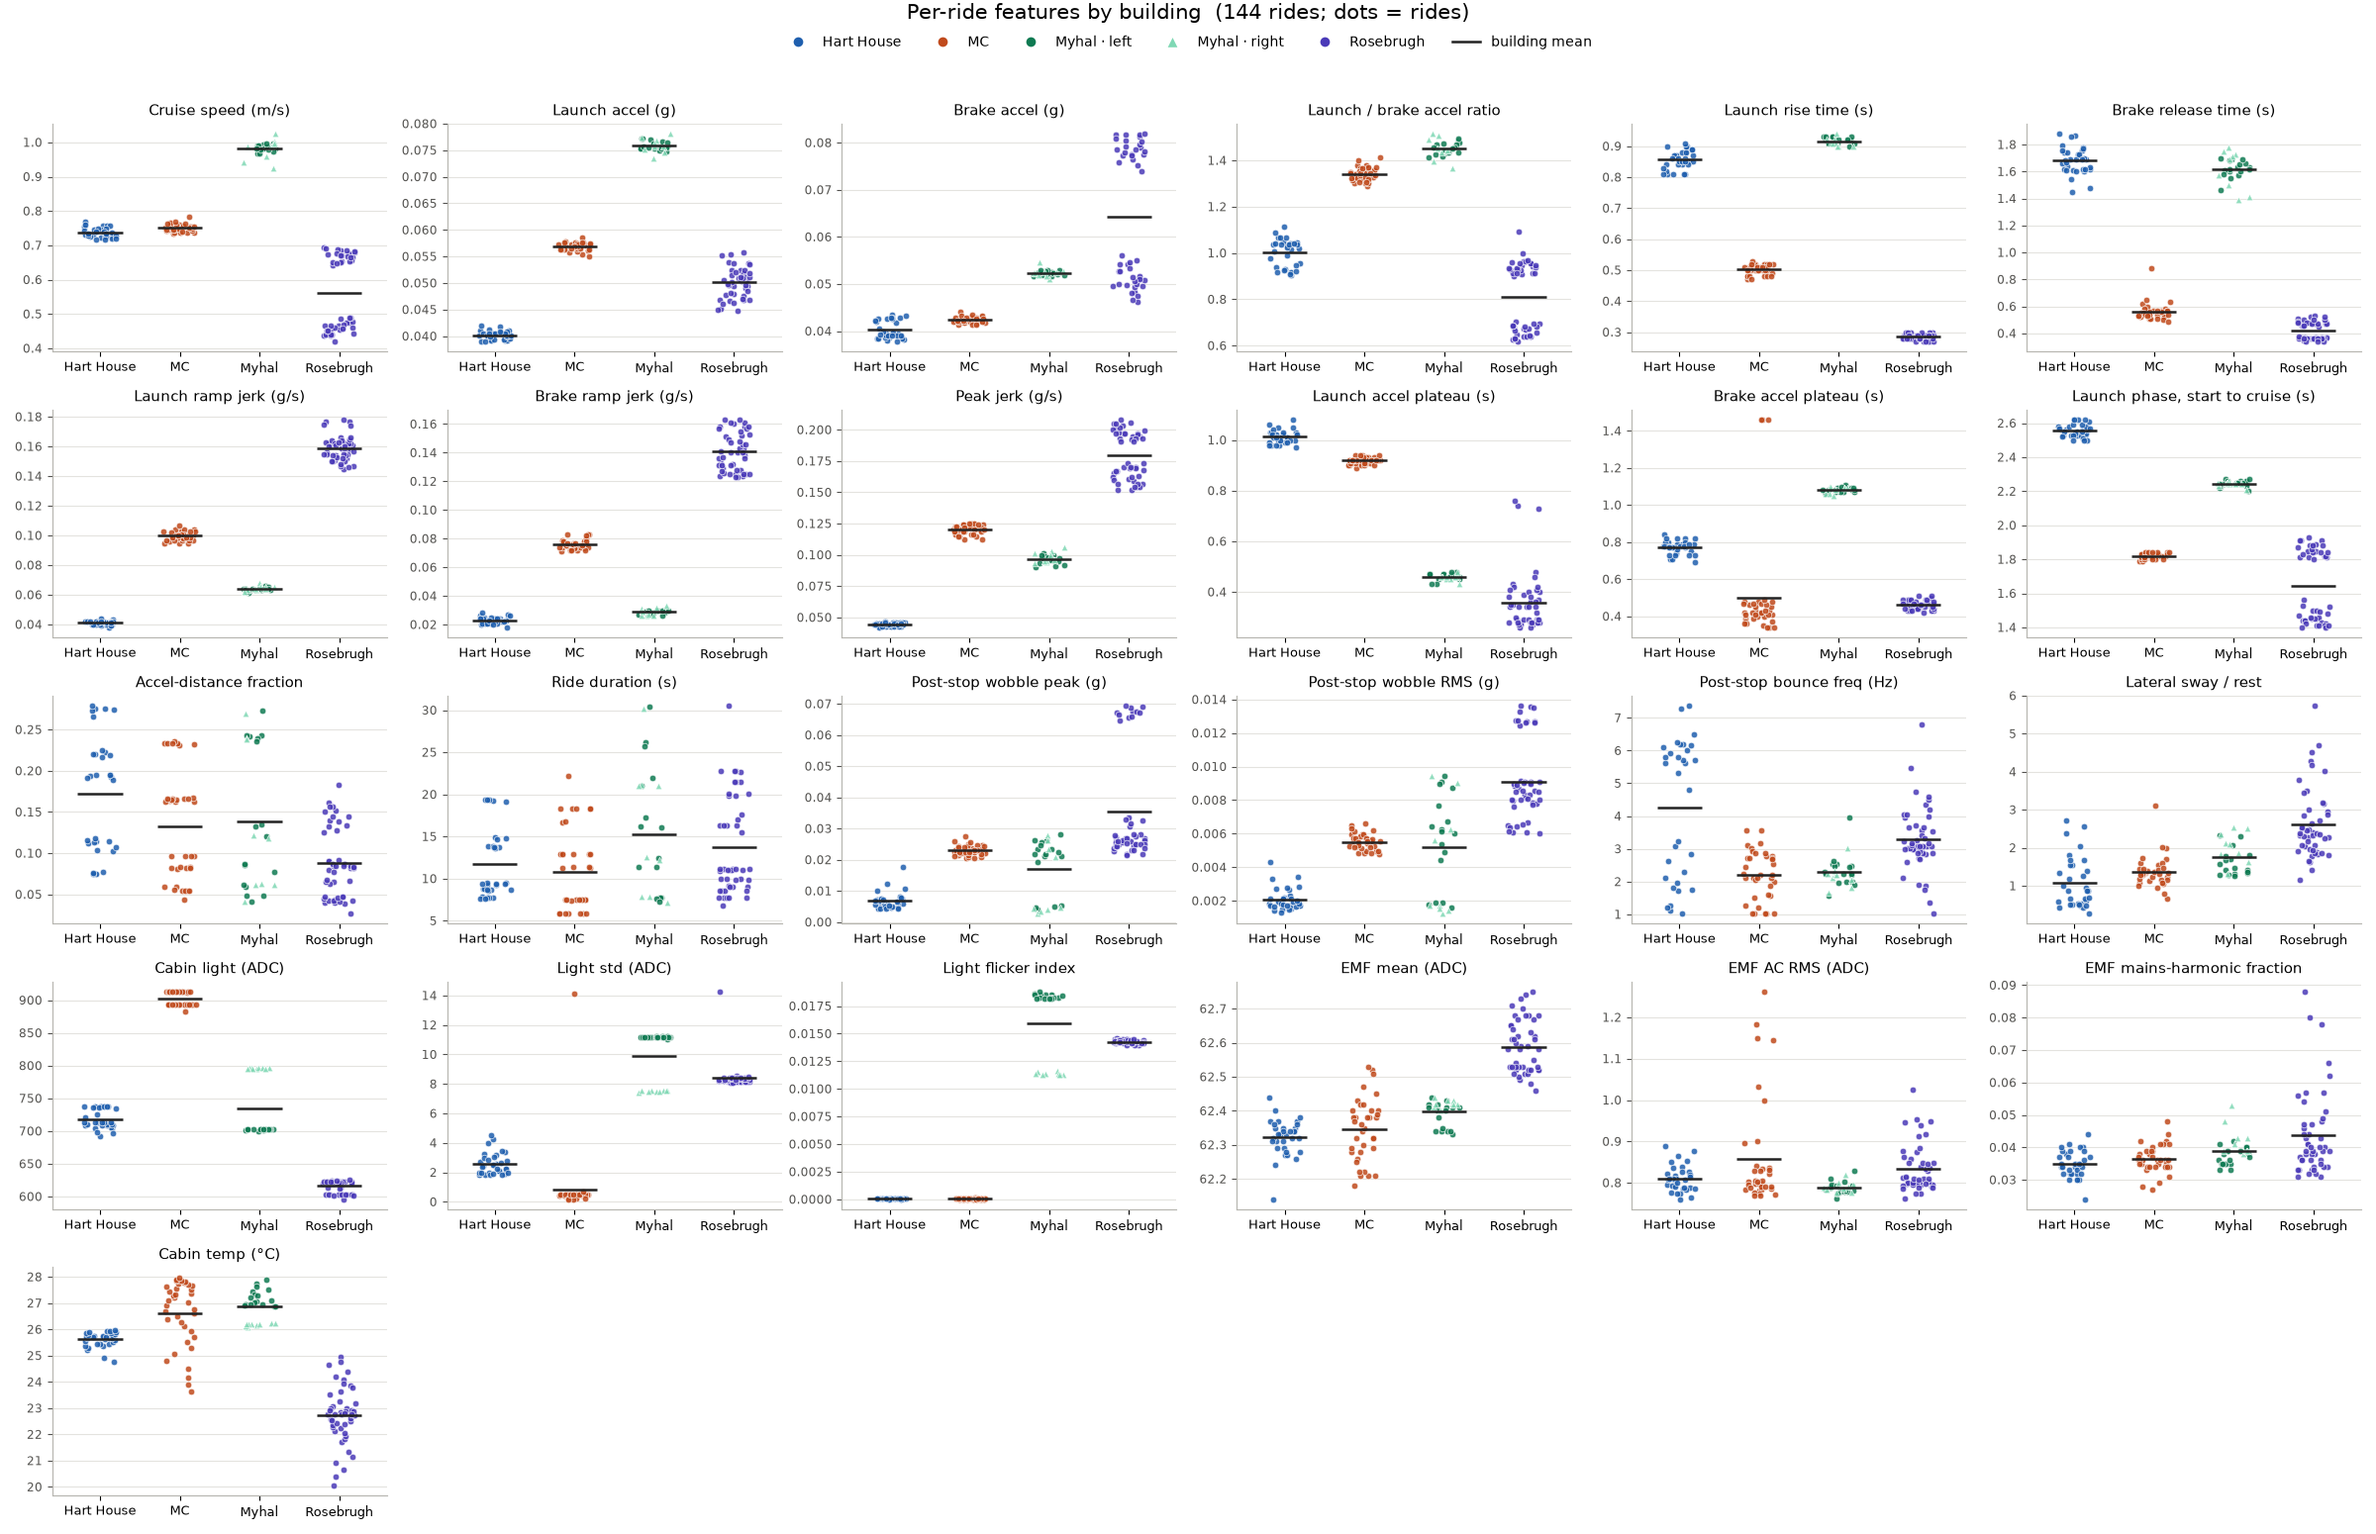
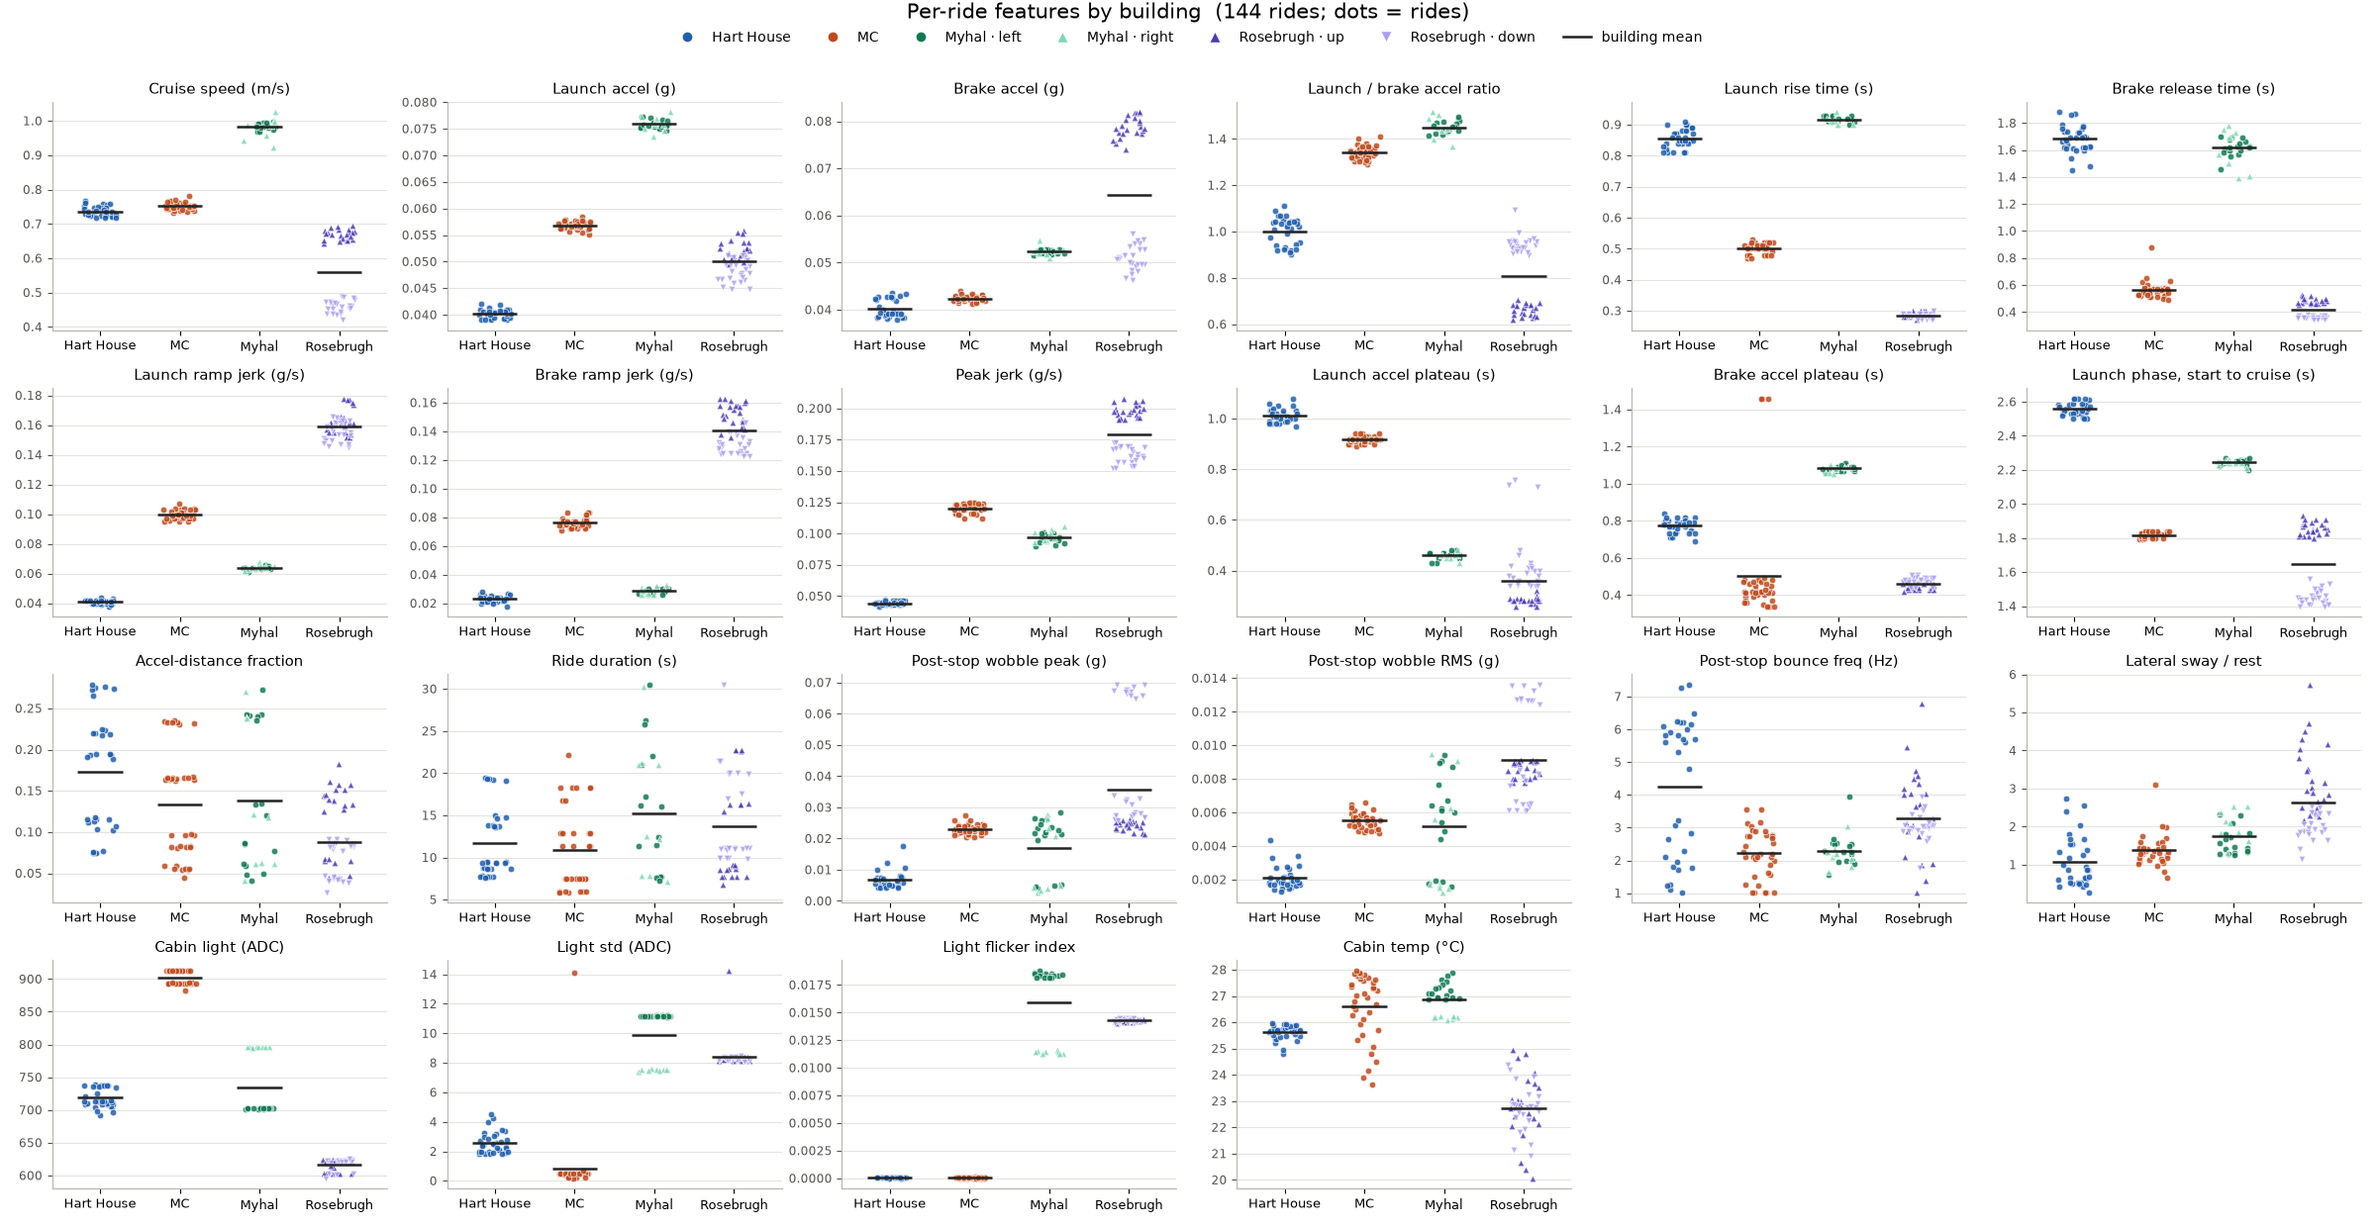
Drop EMF features; add top-15 figure; split Rosebrugh by direction
- Remove EMF mean / AC RMS / mains fraction: no change between dwell and
  ride even at launch; the mean is a per-day ADC offset (22 features now)
- TOP_FEATURES list and ride_features_top15.png (ranked, numbered panels)
- Plots colour Rosebrugh rides by direction (up/down), since it behaves
  differently each way; other buildings stay coloured by car
- CLAUDE.md: EMF removal, top-15 figure, CV rules, held-out session plan

Claude-Session: https://claude.ai/code/session_011gM6ufB6qEhKFKVNJwHSJA

diff --git a/Data_Collector/postprocess.py b/Data_Collector/postprocess.py
@@ -30,12 +30,12 @@ Filtering (the raw 200 Hz accelerometer is too noisy to differentiate directly):
     plus the max derivative of a_lp for reference.
   * lateral sway = 0.5-20 Hz band-pass of the two horizontal axes, divided by the same quantity in
     the dwell just before the ride (board placement changed raw vibration ~2x between days).
-  * spectra (light flicker, EMF harmonics) are Welch PSDs (1.28 s Hann segments, 50% overlap).
+  * light flicker spectrum is a Welch PSD (1.28 s Hann segments, 50% overlap).
 Dropped after the cross-day check: vertical vibration (unstable even normalized), speed ripple, RH
-(weather), EMF strongest harmonic, and the features that depended on hand-logged doors or showed
+(weather), all EMF features (the sensor shows no change between dwell and ride, even at
+launch; its mean is a per-day ADC offset sitting between two integer levels), and the features that depended on hand-logged doors or showed
 nothing (EMF-accel correlation, flicker frequency, temp & RH vs altitude).
-Aliasing: at 200 Hz sampling the Nyquist is 100 Hz, so 120 Hz lamp flicker shows at 80 Hz and the
-60 Hz mains harmonics fold to 60 / 80 / 20 / 40 Hz (60, 120, 180, 240+360 Hz).
+Aliasing: at 200 Hz sampling the Nyquist is 100 Hz, so 120 Hz lamp flicker shows at 80 Hz.
 
 Run from the Data_Collector folder:  python postprocess.py
 """
@@ -56,6 +56,7 @@ SESSIONS_DIR = os.path.join(BASE_DIR, "sessions")
 CONFIG_PATH = os.path.join(BASE_DIR, "config.json")
 OUT_CSV = os.path.join(BASE_DIR, "ride_features.csv")
 OUT_PNG = os.path.join(BASE_DIR, "ride_features.png")
+OUT_TOP_PNG = os.path.join(BASE_DIR, "ride_features_top15.png")
 OUT_SEG_PNG = os.path.join(BASE_DIR, "segmentation_check.png")
 
 FAST_HZ = 200.0
@@ -90,7 +91,6 @@ BOUNCE_BAND = (1.0, 8.0)
 BOUNCE_NFFT = 4096       # zero-padded FFT -> ~0.05 Hz bins
 WELCH_NPERSEG = 256      # 1.28 s segments -> 0.78 Hz resolution
 FLICKER_BAND = (50.0, 99.0)    # 120 Hz flicker aliases to 80 Hz
-MAINS_ALIAS_HZ = (60.0, 80.0, 20.0, 40.0)   # 60, 120, 180, 240/360 Hz folded about 100 Hz
 TONE_HALF_BW = 0.8       # Hz either side of a tone when integrating its power
 
 # slow sensors
@@ -216,7 +216,6 @@ def session_signals(F):
     a_v = A @ up - gmag                                   # vertical specific accel, g, + = upward
     h = [A @ e1, A @ e2]                                  # horizontal components (band-passed below)
     light = F["light"].values.astype(float)
-    emf = F["emf"].values.astype(float)
     return {
         "t": (F["t_us"].values - F["t_us"].values[0]) / 1e6,
         "host": F["host"].values,
@@ -227,7 +226,6 @@ def session_signals(F):
         "h1": butter(h[0], SWAY_BAND, "bandpass"),
         "h2": butter(h[1], SWAY_BAND, "bandpass"),
         "light": light,
-        "emf": emf,
     }
 
 
@@ -407,15 +405,6 @@ def ride_features(sig, S, i0, i1):
     f["light_std"] = r(light.std(), 2)
     f["light_flicker_index"] = r(amp / light.mean(), 4) if light.mean() > 0 else np.nan
 
-    # EMF: level, AC RMS, mains-harmonic content
-    emf = sig["emf"][s:e + 1]
-    fr, P = welch(emf)
-    tones = [band_power(fr, P, h - TONE_HALF_BW, h + TONE_HALF_BW) for h in MAINS_ALIAS_HZ]
-    total = band_power(fr, P, 1.0, 99.0)
-    f["emf_mean"] = r(emf.mean(), 2)
-    f["emf_rms_ac"] = r(np.sqrt(np.mean((emf - emf.mean()) ** 2)), 3)
-    f["emf_mains_frac"] = r(sum(tones) / total, 3) if total > 0 else np.nan
-
     # cabin temperature (RH dropped: it follows the weather, not the building)
     ts = (S["t_us"].values - sig["t0_us"]) / 1e6
     m = (ts >= t[s] - SLOW_PAD_S) & (ts <= t[e] + SLOW_PAD_S) & np.isfinite(S["temp"].values)
@@ -478,7 +467,8 @@ def label_ride(F, i0, i1, windows, ev, floors):
 
 # ----------------------------- visualization -----------------------------
 # Every feature as a strip of per-ride dots, one column per building. Cars of the same building
-# share the column and the building's hue, told apart by shade + marker. Black bar = building mean.
+# share the column and the building's hue, told apart by shade + marker (Rosebrugh: up vs down
+# instead, see DIRECTION_SPLIT). Black bar = building mean.
 FEATURES = [
     # kinematics (motion profile)
     ("cruise_speed_mps", "Cruise speed (m/s)"),
@@ -501,14 +491,23 @@ FEATURES = [
     ("bounce_freq_hz", "Post-stop bounce freq (Hz)"),
     # lateral sway (placement-normalized)
     ("sway_rest_ratio", "Lateral sway / rest"),
-    # light, EMF, climate
+    # light, climate
     ("light_mean", "Cabin light (ADC)"),
     ("light_std", "Light std (ADC)"),
     ("light_flicker_index", "Light flicker index"),
-    ("emf_mean", "EMF mean (ADC)"),
-    ("emf_rms_ac", "EMF AC RMS (ADC)"),
-    ("emf_mains_frac", "EMF mains-harmonic fraction"),
     ("temp_mean_c", "Cabin temp (°C)"),
+]
+
+# The 15 features carried forward to the classifiers, best first: ranked on between- vs
+# within-building spread, worst-pair separation, Rosebrugh cross-day shift, and redundancy (left out:
+# light_std ~ flicker index, wobble RMS ~ wobble peak, temp (day risk), bounce freq / brake plateau
+# (weak), duration / accel-distance fraction (trip length, not car)). Ranked on all shared data, so
+# it is a starting point; the reported results re-select features inside each CV fold.
+TOP_FEATURES = [
+    "accel_rise_s", "launch_jerk_g_s", "launch_accel_g", "brake_jerk_g_s", "light_mean",
+    "cruise_speed_mps", "launch_plateau_s", "accel_decel_ratio", "light_flicker_index",
+    "launch_phase_s", "post_stop_wobble_g", "brake_release_s", "brake_accel_g", "peak_jerk_g_s",
+    "sway_rest_ratio",
 ]
 
 # fixed hue per building (never by rank); [dark, light, mid] shades for up to three cars
@@ -521,40 +520,51 @@ BUILDING_COLORS = {
 OTHER_COLORS = ["#6b6a66", "#bdbcb6", "#8f8e89"]
 CAR_MARKERS = ["o", "^", "s"]
 SHORT_NAME = {"Mechanical (MC)": "MC"}
+# Buildings whose rides are split by direction instead of car: Rosebrugh behaves differently up vs
+# down (slower, softer descent; likely hydraulic), while the traction cars are symmetric.
+DIRECTION_SPLIT = {"Rosebrugh"}
+DIR_STYLE = {"up": (0, "^"), "down": (1, "v")}         # (shade index, marker)
 
 
-def car_styles(df, buildings):
-    """(building, car) -> (color, marker, legend label)."""
+def plot_groups(df, buildings):
+    """Adds df['_grp'] (car, or direction for DIRECTION_SPLIT buildings) and returns
+    (building, group) -> (color, marker, legend label)."""
+    df["_grp"] = np.where(df["building"].isin(DIRECTION_SPLIT), df["direction"], df["car"])
     styles = {}
     for b in buildings:
-        cars = sorted(df.loc[df["building"] == b, "car"].fillna("").astype(str).unique())
         shades = BUILDING_COLORS.get(b, OTHER_COLORS)
-        for j, c in enumerate(cars):
-            name = SHORT_NAME.get(b, b)
-            label = f"{name} · {c}" if c and len(cars) > 1 else name
-            styles[(b, c)] = (shades[j % len(shades)], CAR_MARKERS[j % len(CAR_MARKERS)], label)
+        name = SHORT_NAME.get(b, b)
+        groups = sorted(df.loc[df["building"] == b, "_grp"].unique(),
+                        key=lambda g: (DIR_STYLE.get(g, (9,))[0], g))   # up before down
+        for j, g in enumerate(groups):
+            if b in DIRECTION_SPLIT:
+                k, marker = DIR_STYLE.get(g, (2, "o"))
+                styles[(b, g)] = (shades[k % len(shades)], marker, f"{name} · {g}")
+            else:
+                label = f"{name} · {g}" if g and len(groups) > 1 else name
+                styles[(b, g)] = (shades[j % len(shades)], CAR_MARKERS[j % len(CAR_MARKERS)], label)
     return styles
 
 
-def plot_features(df, out_png, config_order):
+def plot_features(df, out_png, config_order, features=FEATURES, title="Per-ride features by building",
+                  ncol=6):
     df = df.copy()
     df["car"] = df["car"].fillna("").astype(str)
     present = list(df["building"].dropna().unique())
     buildings = [b for b in config_order if b in present] + sorted(b for b in present
                                                                    if b not in config_order)
-    styles = car_styles(df, buildings)
+    styles = plot_groups(df, buildings)
     rng = np.random.default_rng(0)
 
-    ncol = 6
-    nrow = int(np.ceil(len(FEATURES) / ncol))
-    fig, axes = plt.subplots(nrow, ncol, figsize=(4.0 * ncol, 3.1 * nrow))
-    for ax, (col, label) in zip(axes.flat, FEATURES):
+    nrow = int(np.ceil(len(features) / ncol))
+    fig, axes = plt.subplots(nrow, ncol, figsize=(4.0 * ncol, 3.1 * nrow), squeeze=False)
+    for ax, (col, label) in zip(axes.flat, features):
         for i, b in enumerate(buildings):
             sub = df[df["building"] == b]
-            for (bb, c), (color, marker, _) in styles.items():
+            for (bb, g), (color, marker, _) in styles.items():
                 if bb != b:
                     continue
-                vals = sub.loc[sub["car"] == c, col].dropna().values
+                vals = sub.loc[sub["_grp"] == g, col].dropna().values
                 ax.scatter(i + rng.uniform(-0.2, 0.2, len(vals)), vals, s=22, alpha=0.85,
                            color=color, marker=marker, edgecolor="white", linewidth=0.5, zorder=2)
             allv = sub[col].dropna().values
@@ -571,7 +581,7 @@ def plot_features(df, out_png, config_order):
             ax.spines[sp].set_visible(False)
         for sp in ("left", "bottom"):
             ax.spines[sp].set_color("#b5b4ae")
-    for ax in axes.flat[len(FEATURES):]:
+    for ax in axes.flat[len(features):]:
         ax.set_visible(False)
 
     handles = [Line2D([], [], ls="", marker=m, color=c, markersize=8, markeredgecolor="white",
@@ -579,9 +589,8 @@ def plot_features(df, out_png, config_order):
     handles.append(Line2D([], [], color="#222222", lw=1.8, label="building mean"))
     fig.legend(handles=handles, loc="upper center", ncol=len(handles), frameon=False, fontsize=10,
                bbox_to_anchor=(0.5, 0.985))
-    fig.suptitle(f"Per-ride features by building  ({len(df)} rides; dots = rides)", fontsize=15,
-                 y=0.998)
-    plt.tight_layout(rect=(0, 0, 1, 0.965))
+    fig.suptitle(f"{title}  ({len(df)} rides; dots = rides)", fontsize=15, y=0.998)
+    plt.tight_layout(rect=(0, 0, 1, 1 - 0.105 / nrow))
     fig.savefig(out_png, dpi=100)
     plt.close(fig)
 
@@ -736,11 +745,16 @@ def main():
 
     csv_msg = save(lambda: df.to_csv(OUT_CSV, index=False), OUT_CSV)
     png_msg = save(lambda: plot_features(df, OUT_PNG, list(building_floors)), OUT_PNG)
+    labels = dict(FEATURES)
+    top = [(c, f"{i}. {labels[c]}") for i, c in enumerate(TOP_FEATURES, start=1)]
+    top_msg = save(lambda: plot_features(df, OUT_TOP_PNG, list(building_floors), top,
+                                         "Top 15 features, ranked", ncol=5), OUT_TOP_PNG)
     seg_msg = save(lambda: plot_segmentation_check(seg_panels, OUT_SEG_PNG), OUT_SEG_PNG)
     print("-" * 92)
     print(f"{len(df)} rides from {df['session'].nunique()} sessions, {len(feat_cols)} features -> {csv_msg}")
     print("Buildings:", ", ".join(f"{b}:{n}" for b, n in df["building"].value_counts().items()))
     print(f"Feature plot        -> {png_msg}")
+    print(f"Top-15 plot         -> {top_msg}")
     print(f"Segmentation check  -> {seg_msg}")
 
 

diff --git a/CLAUDE.md b/CLAUDE.md
@@ -39,17 +39,24 @@ sensor data.
   the barometer to ~5%). Jerk = least-squares slope of the 20–80% launch/brake ramps. Lateral sway
   is divided by the sway in the dwell just before the ride. 200 Hz sampling aliases 120 Hz flicker
   to 80 Hz and mains harmonics to 60/80/20/40 Hz.
-- **25 features**, phase-based (launch = start of ride, brake = end, regardless of direction):
+- **22 features**, phase-based (launch = start of ride, brake = end, regardless of direction):
   cruise speed; launch/brake accel, ratio, rise/release time, ramp jerk, plateau; peak jerk; launch
   phase; accel-distance fraction; duration; post-stop wobble peak/RMS + bounce frequency; sway/rest;
-  light mean/std/flicker index; EMF mean/AC RMS/mains fraction; temp. Extra columns: `direction`
+  light mean/std/flicker index; temp. Extra columns: `direction`
   (classifier input), `height_m` (for the floor-lattice feature), `floor_height_m` (analysis only).
 - Dropped after the cross-day check: vertical vibration (RMS, centroid, band power — unstable even
-  normalized), speed ripple, RH, EMF strongest harmonic, door pop/step, EMF-accel correlation,
+  normalized), speed ripple, RH, **all EMF** (no change between dwell and ride even at launch; its
+  mean is a per-day ADC offset between two integer levels), door pop/step, EMF-accel correlation,
   flicker frequency, temp/RH-vs-altitude slopes. Levelling creep was tested and is below the
   barometer's noise, so it isn't a feature.
 - Keep it to ONE script, ONE consolidated output (`ride_features.csv`). `ride_features.png` puts
-  one column per building, with cars in the same building shown as shades of that building's hue.
+  one column per building, with cars in the same building shown as shades of that building's hue;
+  `ride_features_top15.png` shows only `TOP_FEATURES` (the 15 carried to the classifiers, ranked).
+- Classifier rules: leave-one-session-out CV; anything learned from data (floor-lattice clusters,
+  scaling, PCA, feature selection) is refitted inside each fold. The rise/jerk/release/launch-phase
+  features are one correlated "drive smoothness" factor (r 0.88–0.98), so trim them or reduce them
+  with PCA for naive Bayes / KNN. The user is holding back one extra session per building as a
+  final test set: freeze the model before it is shared, run it once, never tune on it.
 
 ## Current state (2026-10-29)
 - Collected: **Myhal** (cars right + left, 10-28, 26 rides), **Rosebrugh** (1 car; 10-28 4
